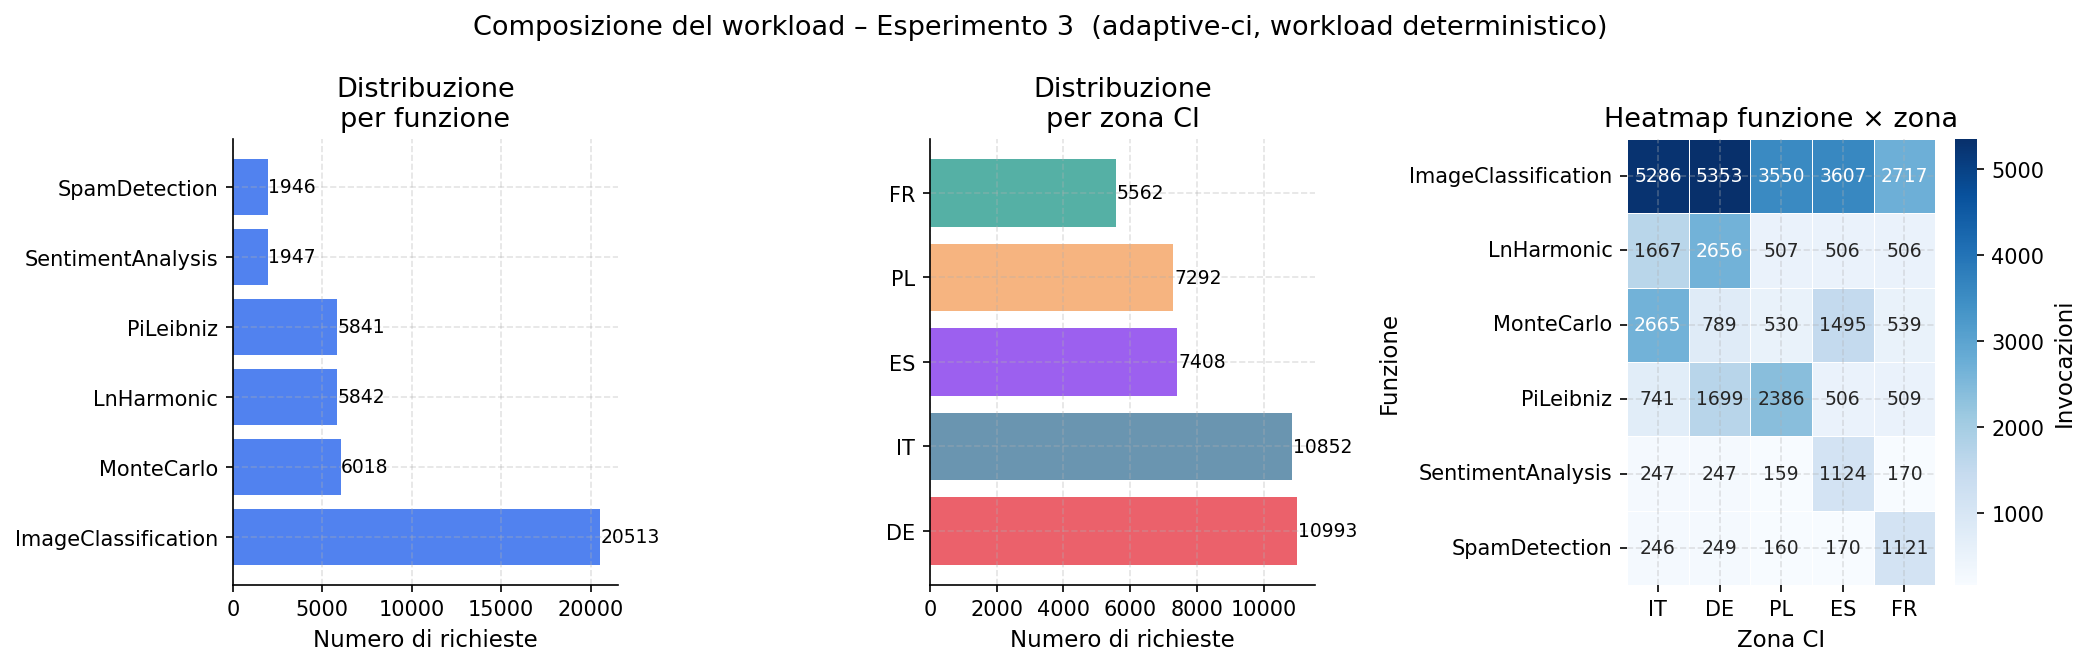
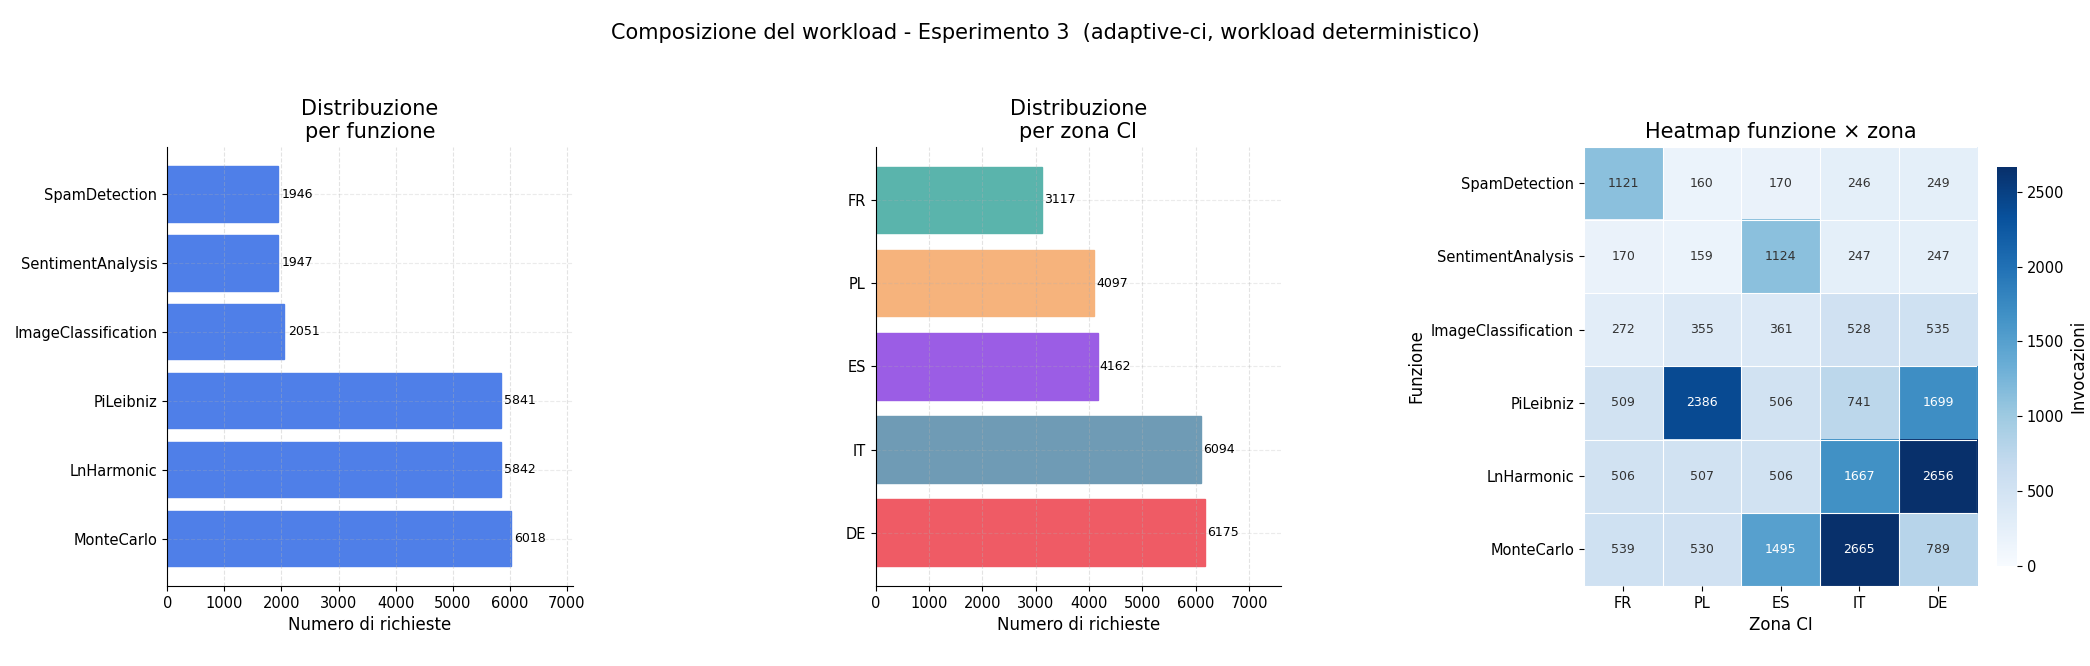
Update experimental results chapter with clarity improvements and additional context

diff --git a/src/capitoli/05-RisultatiSperimentali.tex b/src/capitoli/05-RisultatiSperimentali.tex
@@ -2,9 +2,11 @@
 \label{cap:RisultatiSperimentali}
 
 \emph{Questo capitolo valuta sperimentalmente l'estensione carbon-aware
-di Serverledge proposta in questa tesi. L'obiettivo è verificare se lo scheduler carbon-aware seleziona varianti
-coerenti con la carbon intensity della zona, muovendosi lungo la frontiera
-di Pareto in funzione del contesto carbonico dell'esecuzione. Il consumo
+di Serverledge proposta in questa tesi. L'obiettivo è verificare se lo
+scheduler carbon-aware seleziona varianti coerenti con la carbon intensity
+della zona, muovendosi lungo la frontiera di Pareto in funzione del
+contesto carbonico dell'esecuzione, e se la selezione dinamica delle
+varianti introduce benefici rispetto ad approcci statici. Il consumo
 è considerato una dimensione del trade-off con la qualità del risultato:
 lo scheduler privilegia varianti più efficienti quando il costo carbonico
 dell'energia è elevato, mantenendo varianti più accurate quando tale costo
@@ -211,7 +213,7 @@ Per ciascuna zona è disponibile una traccia storica di carbon intensity
 oraria estratta da ElectricityMaps~\cite{electricitymaps2024}, utilizzata
 per guidare le decisioni dello scheduler durante la simulazione.
 
-Gli Esperimenti~1 e~2 sono condotti a tempo discreto: per ciascuna zona
+Gli Esperimenti~1 e~2 sono condotti emulando un modello temporale discreto: per ciascuna zona
 viene riletta una traccia di invocazioni da file e ogni richiesta viene
 valutata rispetto alla CI associata al passo temporale corrente, estratta
 dalle serie storiche orarie di ElectricityMaps.
@@ -593,13 +595,13 @@ a bassa CI e si avvicina a $\Lambda_0$ nelle zone più carbon-intensive;
 la distanza tra i due estremi cresce progressivamente spostandosi dalla
 Francia alla Polonia.
 
-\subsection{Interpretazione}
+\subsection{Discussione}
 \label{subsec:esperimento1-interpretazione}
 
 I risultati mostrano l'effetto della calibrazione europea sulle scelte
 dello scheduler. Poiché tutte le zone sono valutate rispetto alla stessa
 funzione $\lambda(\mathrm{CI})$, il valore assoluto della CI determina la
-posizione lungo la frontiera: le reti più pulite si avvicinano a
+posizione lungo la frontiera: le regioni più pulite si avvicinano a
 $\Lambda_1$, mentre quelle più carbon-intensive si avvicinano a
 $\Lambda_0$.
 
@@ -669,33 +671,38 @@ suddivisione usata per individuare le fasce rappresentative.
 
 \begin{figure}[p]
     \centering
-    \begin{subfigure}{0.49\textwidth}
+    \begin{subfigure}{0.94\textwidth}
         \centering
         \includegraphics[width=\textwidth]{figures/ci_distribution_FR.png}
         \caption{Francia (FR)}
     \end{subfigure}
-    \hfill
-    \begin{subfigure}{0.49\textwidth}
+
+    \vspace{0.25cm}
+    \begin{subfigure}{0.94\textwidth}
         \centering
         \includegraphics[width=\textwidth]{figures/ci_distribution_ES.png}
         \caption{Spagna (ES)}
     \end{subfigure}
 
     \vspace{0.25cm}
-    \begin{subfigure}{0.49\textwidth}
+    \begin{subfigure}{0.94\textwidth}
         \centering
         \includegraphics[width=\textwidth]{figures/ci_distribution_IT.png}
         \caption{Italia (IT)}
     \end{subfigure}
-    \hfill
-    \begin{subfigure}{0.49\textwidth}
+\end{figure}
+
+\begin{figure}[p]
+    \centering
+    \setcounter{subfigure}{3}
+    \begin{subfigure}{0.94\textwidth}
         \centering
         \includegraphics[width=\textwidth]{figures/ci_distribution_DE.png}
         \caption{Germania (DE)}
     \end{subfigure}
 
     \vspace{0.25cm}
-    \begin{subfigure}{0.49\textwidth}
+    \begin{subfigure}{0.94\textwidth}
         \centering
         \includegraphics[width=\textwidth]{figures/ci_distribution_PL.png}
         \caption{Polonia (PL)}
@@ -710,14 +717,14 @@ suddivisione usata per individuare le fasce rappresentative.
 
 \begin{figure}[p]
     \centering
-    \begin{subfigure}{0.80\textwidth}
+    \begin{subfigure}{0.90\textwidth}
         \centering
         \includegraphics[width=\textwidth]{figures/lambda_curve_FR1.png}
         \caption{Francia (FR)}
     \end{subfigure}
 
-    \vspace{0.25cm}
-    \begin{subfigure}{0.80\textwidth}
+    \vspace{0.15cm}
+    \begin{subfigure}{0.90\textwidth}
         \centering
         \includegraphics[width=\textwidth]{figures/lambda_curve_PL1.png}
         \caption{Polonia (PL)}
@@ -993,7 +1000,7 @@ CO\textsubscript{2}, tempo e qualità rispetto alle due baseline.
 
 \clearpage
 
-\subsection{Interpretazione}
+\subsection{Discussione}
 \label{subsec:esperimento2-interpretazione}
 
 L'Esperimento~2 mostra come le decisioni cambiano quando la CI viene
@@ -1051,9 +1058,10 @@ uniforme e possono concentrarsi in burst o fasi di picco; è quindi utile
 osservare non solo quale variante lo scheduler seleziona, ma anche se il
 sistema mantiene throughput accettabile al variare del tasso di arrivo.
 
-Il workload è deterministico: a parità di seed, la sequenza di richieste
---- funzione invocata, zona geografica e valore di carbon intensity --- è
-identica per le tre policy, al fine di mantenerle comparabili.
+Il workload è deterministico: a parità di seed e configurazione, la
+sequenza di richieste --- funzione invocata, zona geografica e valore di
+carbon intensity --- è identica per le tre policy, al fine di mantenerle
+comparabili.
 
 % -----------------------------------------------------------
 \subsection{Configurazione del workload}
@@ -1074,13 +1082,19 @@ Il tempo del workload non coincide con l'orario reale di esecuzione del
 test, ma viene usato per simulare l'arrivo di invocazioni a partire da
 un punto della traccia di carbon intensity. Ogni fase è quindi ancorata
 a un orario iniziale della traccia, indicato da \texttt{ciHourStart}.
-Durante il flusso di richieste, lo script seleziona in modo deterministico
-la zona geografica e associa a ciascuna invocazione la carbon intensity
-osservata nella traccia per il contesto temporale simulato, inoltrandola
-poi a Serverledge tramite il campo \texttt{ci\_override}. In questo modo,
-il workload non rappresenta solo un profilo sintetico di arrivi, ma anche
-una sequenza controllata e variabile di condizioni carbon-aware osservate
-dallo scheduler.
+Durante il flusso di richieste, sia la funzione da invocare sia la zona
+geografica sono selezionate tramite un generatore pseudo-casuale
+inizializzato con seed fisso. Le estrazioni avvengono sugli insiemi di
+funzioni e zone definiti nella configurazione del workload, che ne
+specifica anche i pesi relativi. Il seed rende riproducibile la sequenza:
+a parità di indice dell'invocazione, lo script produce quindi sempre la
+stessa coppia funzione-zona, indipendentemente dalla policy in esecuzione.
+A ciascuna invocazione viene poi associata la carbon intensity osservata
+nella traccia per il contesto temporale simulato, inoltrandola a
+Serverledge tramite il campo \texttt{ci\_override}. In questo modo, il
+workload non rappresenta solo un profilo sintetico di arrivi, ma anche una
+sequenza controllata e variabile di condizioni carbon-aware osservate dallo
+scheduler.
 
 Il workload è composto da cinque fasi consecutive, con tasso di arrivo
 compreso tra 2 e 25~richieste al secondo e durata complessiva pari a
@@ -1266,7 +1280,7 @@ delle varianti ad alta qualità.
     \label{fig:exp3-throughput}
 \end{figure}
 
-\subsection{Interpretazione}
+\subsection{Discussione}
 \label{subsec:esperimento3-interpretazione}
 
 I risultati dell'Esperimento~3 completano la valutazione dello scheduler
